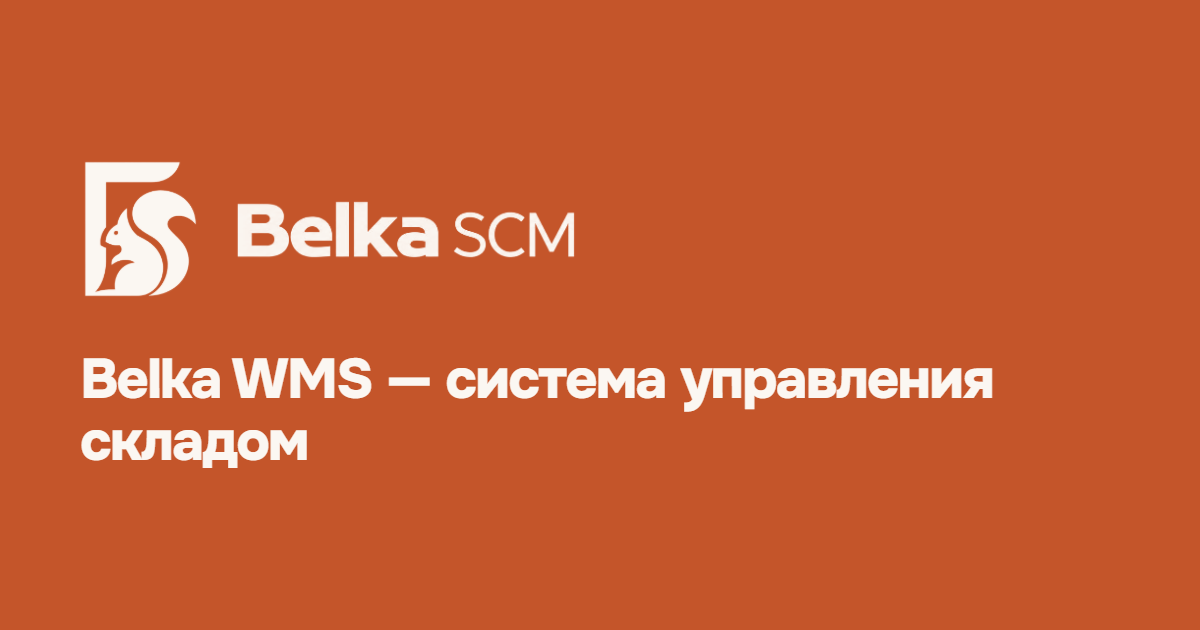
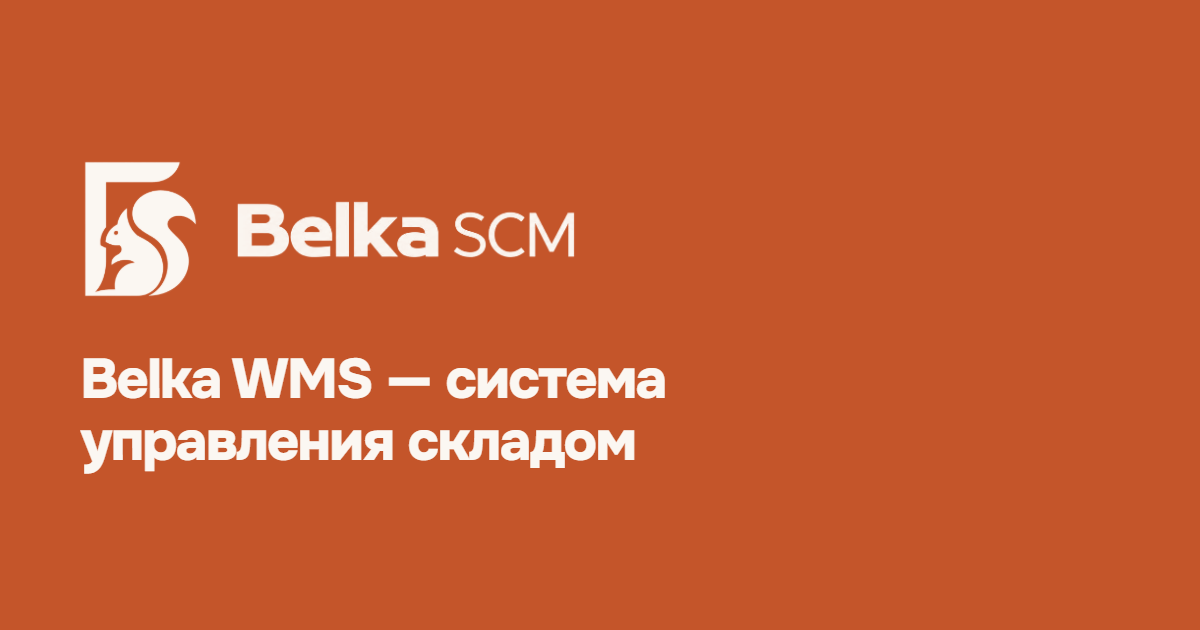
ep04 T14: OG-карточка PackApp
src/assets/og/packapp.png (1200×630, 21 717 байт) из name и descriptor
продукта; ogImage и утверждённый ogImageAlt в products/packapp.md.
Строка продукта на карточке выровнена text-wrap: balance, как заголовки
сайта: без висящего союза «и» в конце строки. Карточка WMS пересобрана
тем же шаблоном (решение владельца 2026-09-27).

Changed region(s): [[0.0617, 0.6635, 0.555, 0.754], [0.555, 0.573, 0.8325, 0.6635]]

diff --git a/scripts/og-template.html b/scripts/og-template.html
@@ -89,6 +89,8 @@
         font-weight: var(--font-weight-heavy);
         line-height: var(--leading-tight);
         letter-spacing: var(--letter-spacing-display);
+        /* Как заголовки сайта (global.css): без короткого союза в конце первой строки. */
+        text-wrap: balance;
       }
     </style>
   </head>

diff --git a/src/content/products/packapp.md b/src/content/products/packapp.md
@@ -13,6 +13,9 @@ summary: "Стол упаковки и маркировки: ведёт упак
 featured: true
 lead: "Belka PackApp — стол упаковки и маркировки для склада, который остаётся на своей WMS. Ведёт упаковщика по заказу, сверяет каждый скан, поддерживает коды маркировки и требования маркетплейсов, проверяет этикетку обратным сканом. Работает у крупного фулфилмент-оператора."
 readiness: available  # скрыто: выводится только при site.flags.showReadiness
+# OG-карточка: npm run build:og -- --product packapp (ep04 T14).
+ogImage: ../../assets/og/packapp.png
+ogImageAlt: "Знак Belka SCM и подпись «Belka PackApp — стол упаковки и маркировки» на рыжей плашке"
 # Страница продукта — герой и секции; тела нет (правило целостности 1).
 sections: [packapp-fit, packapp-surfaces, packapp-control, packapp-marking, packapp-connect]
 seo:
